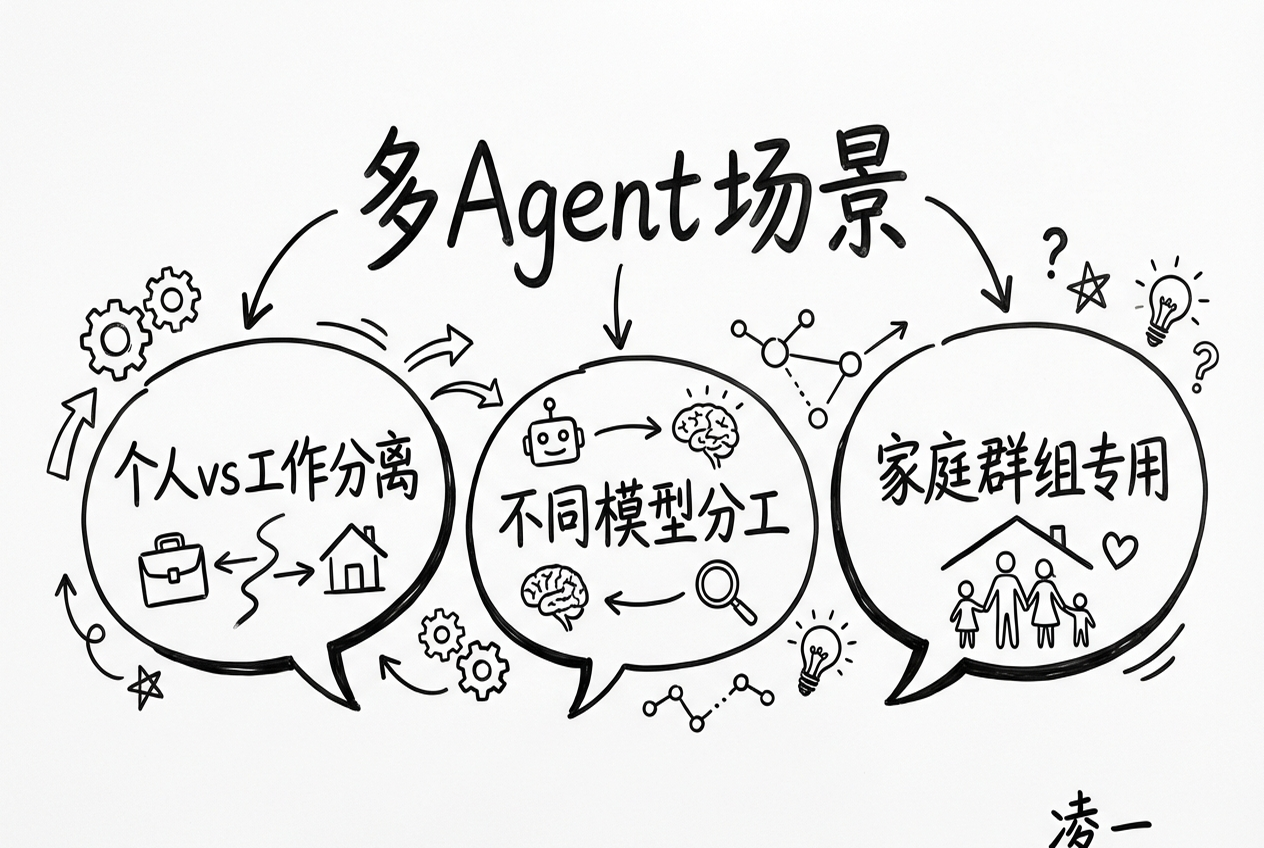
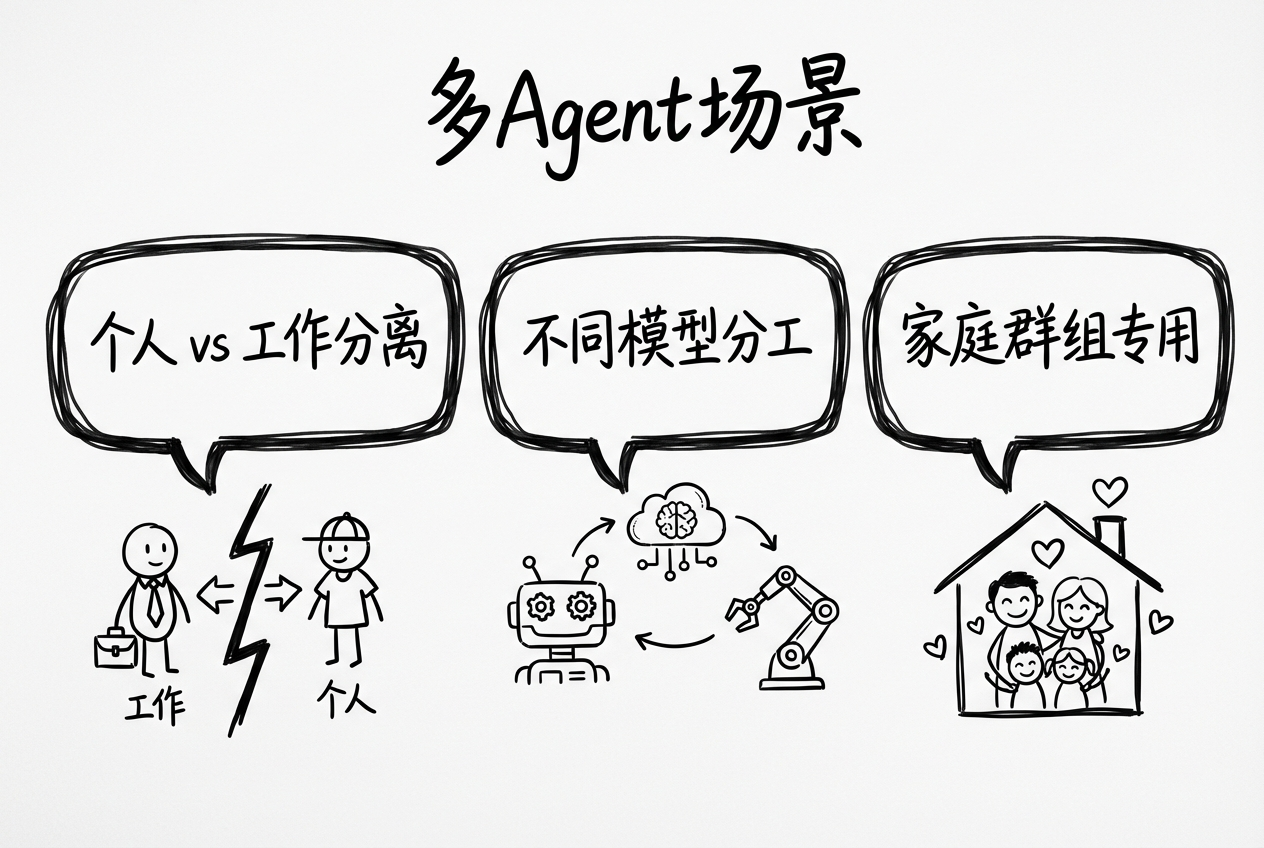
Regen slides 03-15 without signature

Changed region(s): [[0.0309, 0.0613, 0.9873, 0.8585], [0.8331, 0.9198, 0.9256, 1.0]]

diff --git a/openclaw-ppt/index.html b/openclaw-ppt/index.html
@@ -87,7 +87,7 @@ for (let i = 1; i <= total; i++) {
   const div = document.createElement('div');
   div.className = 'slide-item';
   div.innerHTML = `
-    <img src="style-final-slide-${num}.png?v=3" alt="第 ${i} 页" loading="${i <= 3 ? 'eager' : 'lazy'}">
+    <img src="style-final-slide-${num}.png?v=4" alt="第 ${i} 页" loading="${i <= 3 ? 'eager' : 'lazy'}">
     <span class="slide-num">${i} / ${total}</span>
   `;
   container.appendChild(div);
